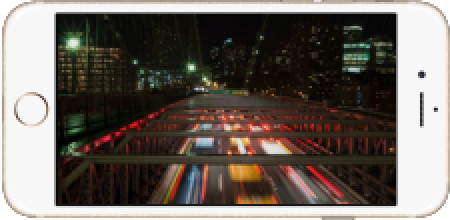
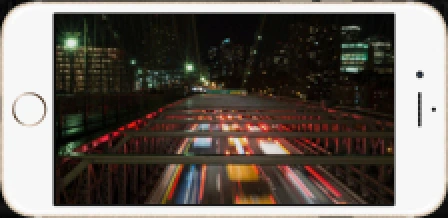
Implement styles for header of product page

diff --git a/hofmann-landing/src/product.html b/hofmann-landing/src/product.html
@@ -4,6 +4,9 @@
     <meta charset="UTF-8" />
     <meta http-equiv="X-UA-Compatible" content="IE=edge" />
     <meta name="viewport" content="width=device-width, initial-scale=1.0" />
+    <link rel="icon" type="image/x-icon" href="./assets/images/favicon.ico" />
+    <link rel="stylesheet" href="./bootstrap/bootstrap.css" />
+    <link rel="stylesheet" href="./styles/main.css" />
     <title>Product Page</title>
   </head>
   <body>
@@ -103,19 +106,46 @@
             />
           </button>
         </nav>
-        <div class="header-product-content">
-          <div>
-            <p>RESPONSIVE UI KIT</p>
-            <h1 class="product-heading">HOFMANN</h1>
-            <p>We’re Bring It To The New Level</p>
-            <p>
-              Every new computer that’s brought home from the store has an
-              operating system installed onto it. But what most new computer
-              users don’t realize, is that without an operating system, that
-              computer would be a simple shell of possibilities.
-            </p>
+        <div class="d-flex flex-column align-items-center flex-md-row justify-content-md-between justify-content-lg-center position-relative header-product-content">
+          <div class="d-flex flex-column justify-content-lg-between product-introduction">
+            <p class="product-introduction-heading">RESPONSIVE UI KIT</p>
+            <div>
+              <h1 class="product-heading">HOFMANN</h1>
+              <p>We’re Bring It To The New Level</p>
+              <p class="product-header-description">
+                Every new computer that’s brought home from the store has an
+                operating system installed onto it. But what most new computer
+                users don’t realize, is that without an operating system, that
+                computer would be a simple shell of possibilities.
+              </p>
+            </div>
+            <div class="d-none d-md-block">
+              <a href="#" class="btn-app-store" aria-label="App store">
+                <picture>
+                  <source
+                    media="(min-width: 992px)"
+                    width="135"
+                    height="40"
+                    srcset="./assets/images/desktop/product/app-store.svg"
+                    loading="lazy"
+                  />
+                  <img src="./assets/images/product/app-store.svg" width="68" height="20" alt="App store">
+                </picture>
+              </a>
+              <a href="#" class="btn-google-play" aria-label="Google play">
+                <picture>
+                  <source
+                    media="(min-width: 992px)"
+                    width="135"
+                    height="40"
+                    srcset="./assets/images/desktop/product/google-play.svg"
+                    loading="lazy"
+                  />
+                <img src="./assets/images/product/google-play.svg" width="68" height="20" alt="Google play">
+              </a>
+            </div>
           </div>
-          <picture>
+          <picture class="position-relative product-header-img">
             <source
               media="(min-width: 992px)"
               width="358"
@@ -134,13 +164,34 @@
               src="./assets/images/mobile/product/iphone.webp"
               width="225"
               height="110"
-              class="img-fluid"
+              class="img-iphone"
               alt="Iphone"
             />
           </picture>
-          <div>
-            <button class="btn-app-store"></button>
-            <button class="btn-google-play"></button>
+          <div class="d-md-none">
+            <a href="#" class="btn-app-store" aria-label="App store">
+              <picture>
+                <source
+                  media="(min-width: 992px)"
+                  width="135"
+                  height="40"
+                  srcset="./assets/images/desktop/product/app-store.svg"
+                  loading="lazy"
+                />
+                <img src="./assets/images/product/app-store.svg" width="68" height="20" alt="App store">
+              </picture>
+            </a>
+            <a href="#" class="btn-google-play" aria-label="Google play">
+              <picture>
+                <source
+                  media="(min-width: 992px)"
+                  width="135"
+                  height="40"
+                  srcset="./assets/images/desktop/product/google-play.svg"
+                  loading="lazy"
+                />
+              <img src="./assets/images/product/google-play.svg" width="68" height="20" alt="Google play">
+            </a>
           </div>
         </div>
       </div>

diff --git a/hofmann-landing/src/styles/page/products/header.css b/hofmann-landing/src/styles/page/products/header.css
@@ -1,0 +1,157 @@
+.product-header {
+  width: 100%;
+  min-height: 425px;
+  background-image: url("/hofmann-landing/src/assets/images/mobile/product/background.webp");
+  background-image: image-set(
+    url("/hofmann-landing/src/assets/images/mobile/product/background.jpg")
+  ); /* Safari */
+  background-repeat: no-repeat;
+  background-size: cover;
+  background-position: initial;
+}
+
+.header-product-content {
+  padding: 27px 36px;
+  font-family: var(--font-family-secondary-regular);
+  font-size: var(--font-size-sm);
+  line-height: var(--line-height-base);
+}
+
+.product-heading {
+  font-family: var(--font-family-primary-bold);
+  font-size: var(--font-size-2xl);
+  line-height: var(--line-height-2xl);
+  color: var(--color-secondary);
+  margin: 14px 0 12px;
+}
+
+.img-iphone {
+  border-radius: var(--border-radius-normal);
+  margin: 16px 0;
+}
+
+.product-header-img {
+  padding: 0 10px;
+}
+
+.btn-app-store {
+  margin-right: 8px;
+}
+
+/* Medium devices (tablets, 768px and up) */
+@media (min-width: 768px) {
+  .product-header {
+    background-image: url("/hofmann-landing/src/assets/images/tablet/product/background.webp");
+    background-image: image-set(
+      url("/hofmann-landing/src/assets/images/tablet/product/background.jpg")
+    ); /* Safari */
+    background-size: cover;
+    background-position: initial;
+  }
+
+  .header-product-content {
+    padding: 0 70px;
+  }
+
+  .product-heading {
+    font-size: var(--font-size-3xl);
+    line-height: var(--line-height-3xl);
+    margin: 58px 0 11px;
+  }
+
+  .product-header-img {
+    bottom: -4px;
+  }
+
+  .img-iphone {
+    margin: 0;
+    border-radius: 0;
+  }
+
+  .product-introduction {
+    width: 50%;
+    min-height: 320px;
+  }
+
+  .product-header-description {
+    margin: 16px 0 38px;
+  }
+}
+
+/* Large devices (desktops, 992px and up) */
+@media (min-width: 992px) {
+  .product-header {
+    height: 768px;
+    background-image: url("/hofmann-landing/src/assets/images/desktop/product/background.webp");
+    background-image: image-set(
+      url("/hofmann-landing/src/assets/images/desktop/product/background.jpg")
+    ); /* Safari */
+  }
+
+  .header-product-content {
+    padding: 40px 40px 0;
+  }
+
+  .product-heading {
+    font-size: var(--font-size-5xl);
+    line-height: var(--line-height-7xl);
+  }
+
+  .product-header-img {
+    bottom: -81px;
+  }
+
+  .header-product-content {
+    font-size: var(--font-size-base);
+    line-height: var(--line-height-xl);
+  }
+
+  .product-introduction-heading {
+    font-size: var(--font-size-normal);
+    line-height: var(--line-height-md);
+  }
+
+  .product-header-description {
+    font-size: var(--font-size-base);
+    line-height: var(--line-height-normal);
+    max-width: 459px;
+  }
+
+  .btn-app-store {
+    margin-right: 30px;
+  }
+}
+
+/* Extra large devices (large desktops, 1200px and up) */
+@media (min-width: 1200px) {
+  .product-header-img {
+    bottom: -98px;
+  }
+}
+
+/* Extra large devices (large desktops, 1400px and up) */
+@media (min-width: 1400px) {
+  .header-product-content {
+    max-width: 1200px;
+    padding: 40px 80px;
+  }
+
+  .product-header-img {
+    right: -62px;
+  }
+
+  .product-introduction {
+    min-height: 500px;
+  }
+
+  .product-header-description {
+    margin-bottom: 0;
+  }
+}
+
+/* Extra large devices (large desktops, 1600px and up) */
+@media (min-width: 1600px) {
+  .header-product-content {
+    max-width: 1600px;
+  }
+}

diff --git a/hofmann-landing/src/styles/common/variables.css b/hofmann-landing/src/styles/common/variables.css
@@ -55,6 +55,7 @@
   --line-height-3xl: 44px;
   --line-height-4xl: 48px;
   --line-height-5xl: 54px;
+  --line-height-7xl: 78px;
 
   --line-height-lg-btn: 19px;
   --line-height-lg-placeholder: 27px;
@@ -75,6 +76,7 @@
   /* border radius */
   --border-radius-tiny: 2px;
   --border-radius-md: 8px;
+  --border-radius-normal: 20px;
   --border-radius-lg: 48px;
   --border-radius-base: 50px;
 }

diff --git a/hofmann-landing/src/bootstrap/bootstrap.css b/hofmann-landing/src/bootstrap/bootstrap.css
@@ -560,6 +560,11 @@ h2,
     justify-content: center !important;
   }
 
+  .justify-content-lg-between {
+    -ms-flex-pack: justify !important;
+    justify-content: space-between !important;
+  }
+
   .align-items-lg-center {
     -ms-flex-align: center !important;
     align-items: center !important;

diff --git a/hofmann-landing/src/styles/main.css b/hofmann-landing/src/styles/main.css
@@ -3,3 +3,4 @@
 @import url("./component/all.css");
 @import url("./section/all.css");
 @import url("./layout/all.css");
+@import url("./page/all.css");

diff --git a/hofmann-landing/src/styles/page/all.css b/hofmann-landing/src/styles/page/all.css
@@ -1,0 +1,1 @@
+@import url("./products/products.css");

diff --git a/hofmann-landing/src/styles/page/products/products.css b/hofmann-landing/src/styles/page/products/products.css
@@ -1,0 +1,1 @@
+@import url("./header.css");
